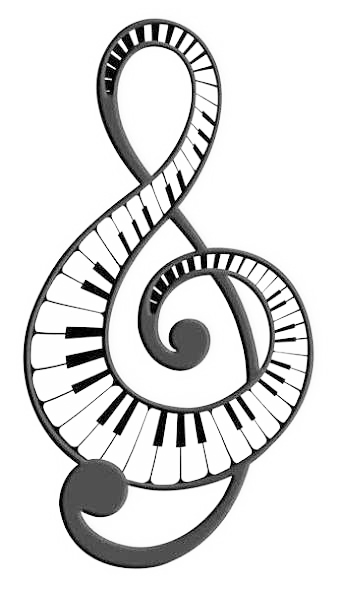
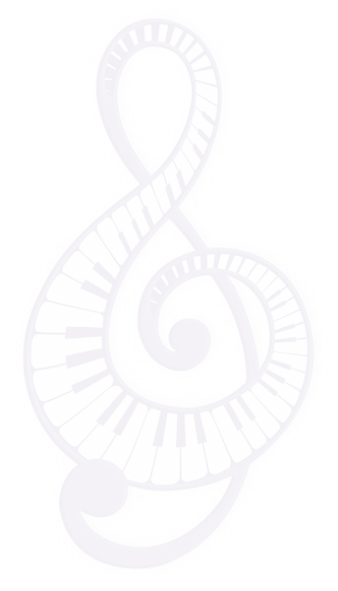
Implement deep purple dark theme, lock in firm DJ pricing
Full site-wide dark theme (background #170f22/#211630, purple accent
#C9A6F5, gold #E8B84B for DJ-track differentiation, near-black footer)
after comparing carbon/blue/purple mockups with Kieran. Regenerated logo
marks as white/light transparent PNGs for the dark background, keeping
black transparent versions for any future light context; favicon stays
on the black version since browser tab chrome is usually light.

DJ R3$pecht pricing table now has firm published numbers (no more ~
ranges or placeholder callout), derived from the confirmed Staging
Solutions combo-package rates. Rate Sheet v2 confirmed accurate as-is.

Changed region(s): [[0.0592, 0.0305, 0.9467, 0.9746], [0.6509, 0.731, 0.6805, 0.7614], [0.3846, 0.731, 0.4142, 0.7614]]

diff --git a/css/style.css b/css/style.css
@@ -1,13 +1,13 @@
 :root {
-  --navy: #1F3864;
-  --navy-dark: #14284a;
-  --teal: #0E7C7B;
-  --rust: #B5651D;
-  --ink: #1a1a1a;
-  --muted: #5f5f5f;
-  --bg: #ffffff;
-  --bg-alt: #f7f6f3;
-  --border: #e2e2e2;
+  --navy: #C9A6F5;
+  --navy-dark: #a879e0;
+  --teal: #C9A6F5;
+  --rust: #E8B84B;
+  --ink: #f2f0f5;
+  --muted: #ab9bc0;
+  --bg: #170f22;
+  --bg-alt: #211630;
+  --border: #3a2a4d;
   --radius: 8px;
 }
 
@@ -37,19 +37,19 @@ h1, h2, h3 { line-height: 1.25; }
   display: flex; align-items: center; justify-content: space-between;
   padding: 16px 24px; max-width: 1100px; margin: 0 auto;
 }
-.logo { display: inline-flex; align-items: center; gap: 8px; font-size: 20px; font-weight: 700; color: var(--navy); letter-spacing: 0.5px; }
-.logo span { color: var(--teal); }
+.logo { display: inline-flex; align-items: center; gap: 8px; font-size: 20px; font-weight: 700; color: var(--ink); letter-spacing: 0.5px; }
+.logo span { color: var(--navy); }
 .logo-mark { width: 26px; height: 26px; flex-shrink: 0; }
 .nav-links { display: flex; align-items: center; gap: 28px; list-style: none; margin: 0; padding: 0; }
 .nav-links a { color: var(--ink); font-weight: 500; font-size: 15px; }
-.nav-links a:hover { color: var(--teal); text-decoration: none; }
+.nav-links a:hover { color: var(--navy); text-decoration: none; }
 
 .btn {
   display: inline-block; padding: 10px 20px; border-radius: var(--radius);
   font-weight: 600; font-size: 15px; border: 2px solid transparent; cursor: pointer;
 }
 .btn:hover { text-decoration: none; }
-.btn-primary { background: var(--navy); color: #fff; }
+.btn-primary { background: var(--navy); color: #170f22; }
 .btn-primary:hover { background: var(--navy-dark); }
 .btn-outline { background: transparent; border-color: currentColor; color: var(--navy); }
 .nav-toggle { display: none; background: none; border: none; font-size: 26px; cursor: pointer; color: var(--navy); }
@@ -75,10 +75,10 @@ h1, h2, h3 { line-height: 1.25; }
 .tracks h2 { text-align: center; font-size: 28px; margin-bottom: 40px; color: var(--navy); }
 .track-grid { display: grid; grid-template-columns: 1fr 1fr; gap: 28px; }
 @media (max-width: 760px) { .track-grid { grid-template-columns: 1fr; } }
-.track-card { border: 1px solid var(--border); border-radius: 12px; padding: 32px; }
-.track-card.staging { border-top: 4px solid var(--teal); }
+.track-card { background: var(--bg-alt); border: 1px solid var(--border); border-radius: 12px; padding: 32px; }
+.track-card.staging { border-top: 4px solid var(--navy); }
 .track-card.dj { border-top: 4px solid var(--rust); }
-.track-card h3 { font-size: 22px; margin: 0 0 12px; }
+.track-card h3 { font-size: 22px; margin: 0 0 12px; color: var(--ink); }
 .track-card p { color: var(--muted); margin-bottom: 20px; }
 
 /* Generic sections */
@@ -90,7 +90,7 @@ p.section-sub { color: var(--muted); margin-bottom: 32px; }
 /* Pricing tables */
 .pricing-table { width: 100%; border-collapse: collapse; margin: 24px 0 40px; font-size: 15px; }
 .pricing-table th, .pricing-table td { text-align: left; padding: 12px 14px; border: 1px solid var(--border); }
-.pricing-table th { background: var(--navy); color: #fff; font-weight: 600; }
+.pricing-table th { background: var(--navy); color: #170f22; font-weight: 600; }
 .pricing-table tr:nth-child(even) td { background: var(--bg-alt); }
 .pricing-note { font-size: 14px; color: var(--muted); font-style: italic; margin-top: -20px; margin-bottom: 32px; }
 
@@ -107,7 +107,7 @@ p.section-sub { color: var(--muted); margin-bottom: 32px; }
 .faq-group h3 { color: var(--navy); font-size: 20px; margin: 40px 0 16px; }
 .faq-group:first-child h3 { margin-top: 0; }
 .faq-item { border-bottom: 1px solid var(--border); padding: 18px 0; }
-.faq-item dt { font-weight: 600; margin-bottom: 8px; }
+.faq-item dt { font-weight: 600; margin-bottom: 8px; color: var(--ink); }
 .faq-item dd { margin: 0; color: var(--muted); }
 
 /* Forms */
@@ -116,27 +116,29 @@ form.booking-form { display: grid; gap: 20px; max-width: 640px; }
 .form-row label { font-weight: 600; font-size: 14px; }
 .form-row input, .form-row select, .form-row textarea {
   padding: 10px 12px; border: 1px solid var(--border); border-radius: var(--radius); font-size: 15px; font-family: inherit;
+  background: var(--bg-alt); color: var(--ink);
 }
+.form-row select option { background: var(--bg-alt); color: var(--ink); }
 .checkbox-group { display: flex; flex-wrap: wrap; gap: 16px; }
 .checkbox-group label { display: flex; align-items: center; gap: 6px; font-weight: 400; font-size: 14px; }
 .form-note { font-size: 13px; color: var(--muted); }
 .hidden { display: none; }
 
 /* Photos */
-.photo-rounded { border-radius: 12px; width: 100%; display: block; box-shadow: 0 2px 10px rgba(0,0,0,0.08); }
+.photo-rounded { border-radius: 12px; width: 100%; display: block; box-shadow: 0 4px 20px rgba(0,0,0,0.5); }
 .gallery-grid { display: grid; grid-template-columns: repeat(auto-fit, minmax(260px, 1fr)); gap: 28px; margin: 8px 0 40px; }
 .gallery-grid figure { margin: 0; }
 .gallery-grid figcaption { font-size: 14px; color: var(--muted); margin-top: 10px; }
 
 /* Callout */
-.callout { background: #fff8ec; border: 1px solid #f0d9a8; border-radius: var(--radius); padding: 16px 20px; font-size: 14px; margin: 24px 0; }
+.callout { background: #2e2418; border: 1px solid #6b5530; border-radius: var(--radius); padding: 16px 20px; font-size: 14px; margin: 24px 0; color: var(--ink); }
 
 /* Footer */
-.site-footer { background: var(--navy); color: #dbe3ef; padding: 48px 0 24px; margin-top: 64px; }
+.site-footer { background: #0d0815; color: #b8a8cc; padding: 48px 0 24px; margin-top: 64px; }
 .site-footer a { color: #fff; }
 .footer-grid { display: grid; grid-template-columns: 1.5fr 1fr 1fr; gap: 32px; margin-bottom: 32px; }
 @media (max-width: 700px) { .footer-grid { grid-template-columns: 1fr; } }
 .footer-grid h4 { color: #fff; font-size: 15px; margin: 0 0 12px; }
 .footer-grid ul { list-style: none; padding: 0; margin: 0; }
 .footer-grid li { margin-bottom: 8px; font-size: 14px; }
-.footer-bottom { border-top: 1px solid rgba(255,255,255,0.15); padding-top: 20px; font-size: 13px; color: #a9b6cc; text-align: center; }
+.footer-bottom { border-top: 1px solid rgba(255,255,255,0.12); padding-top: 20px; font-size: 13px; color: #8a7a9e; text-align: center; }

diff --git a/dj-respecht.html b/dj-respecht.html
@@ -12,7 +12,7 @@
 <meta property="og:url" content="https://spechtlive.com/dj-respecht.html">
 <meta name="twitter:card" content="summary_large_image">
 <link rel="stylesheet" href="css/style.css">
-<link rel="icon" type="image/png" href="img/logo-mark.png">
+<link rel="icon" type="image/png" href="img/logo-mark-black.png">
 </head>
 <body>
 
@@ -49,23 +49,19 @@
       <img src="img/wave-lounge-flyer.png" alt="DJ R3$pecht residency flyer for the Blue Lake Wave Lounge, Friday nights 9pm&ndash;12am, dance &amp; house" class="photo-rounded">
       <figcaption style="margin-top:10px; font-size:14px; color:var(--muted);">Standing DJ residency at the Blue Lake Wave Lounge &mdash; catch a set live.</figcaption>
     </figure>
-    <div class="callout">
-      <strong>Pricing direction is confirmed, dollar figures are placeholders.</strong> The tiers below are all-inclusive (DJ performance + Kieran's own sound + lighting gear) — final numbers depend on how event categories get locked in. Reach out for a firm quote.
-    </div>
-
     <h2 class="section-title">Package tiers</h2>
     <table class="pricing-table">
       <thead><tr><th>Package</th><th>Includes</th><th>Weekday</th><th>Weekend</th></tr></thead>
       <tbody>
-        <tr><td>Ceremony / Cocktail Add-On</td><td>Small PA, wireless mic, background music/ambiance. Add-on only, not sold standalone. 1&ndash;2 hrs.</td><td>~$150&ndash;200</td><td>~$150&ndash;200</td></tr>
-        <tr><td>Reception / Party Package</td><td>DJ performance, Small Band-equivalent sound system, MC/emcee for key moments, Spotlight lighting. Up to 4 hrs.</td><td>~$650</td><td>~$750</td></tr>
-        <tr><td>Full Wedding Package</td><td>DJ performance, full-day MC/emcee, full sound system, full lighting rig (uplighting + dance floor). Ceremony + cocktail + reception, up to 8 hrs.</td><td>~$1,150</td><td>~$1,400</td></tr>
+        <tr><td>Ceremony / Cocktail Add-On</td><td>Small PA, wireless mic, background music/ambiance. Add-on only, not sold standalone. 1&ndash;2 hrs.</td><td>$175</td><td>$175</td></tr>
+        <tr><td>Reception / Party Package</td><td>DJ performance, Small Band-equivalent sound system, MC/emcee for key moments, Spotlight lighting. Up to 4 hrs.</td><td>$700</td><td>$825</td></tr>
+        <tr><td>Full Wedding Package</td><td>DJ performance, full-day MC/emcee, full sound system, full lighting rig (uplighting + dance floor). Ceremony + cocktail + reception, up to 8 hrs.</td><td>$1,150</td><td>$1,400</td></tr>
       </tbody>
     </table>
-    <p class="pricing-note">Additional hour on any tier: ~$125/hr.</p>
+    <p class="pricing-note">Additional hour on any tier: $125/hr.</p>
 
     <h2 class="section-title">Guest DJ set / festival booking</h2>
-    <p>For festivals or gigs where a venue or production company already provides sound — performance-only fee, no gear brought. ~$200&ndash;400 flat depending on set length.</p>
+    <p>For festivals or gigs where a venue or production company already provides sound — performance-only fee, no gear brought. $250&ndash;350 flat depending on set length.</p>
 
     <h2 class="section-title">Corporate &amp; private parties</h2>
     <p>The Reception/Party tier works well for corporate events and private parties too — reach out with your event details for a custom quote.</p>
@@ -88,7 +84,7 @@
     <div class="footer-grid">
       <div>
         <h4>Specht Live</h4>
-        <p style="font-size:14px; color:#c7d2e6;">Specht Staging Solutions and DJ R3$pecht are both operated by Kieran Specht, serving Humboldt County, CA.</p>
+        <p style="font-size:14px; color:#b8a8cc;">Specht Staging Solutions and DJ R3$pecht are both operated by Kieran Specht, serving Humboldt County, CA.</p>
       </div>
       <div>
         <h4>Explore</h4>

diff --git a/about.html b/about.html
@@ -12,7 +12,7 @@
 <meta property="og:url" content="https://spechtlive.com/about.html">
 <meta name="twitter:card" content="summary_large_image">
 <link rel="stylesheet" href="css/style.css">
-<link rel="icon" type="image/png" href="img/logo-mark.png">
+<link rel="icon" type="image/png" href="img/logo-mark-black.png">
 </head>
 <body>
 
@@ -76,7 +76,7 @@
     <div class="footer-grid">
       <div>
         <h4>Specht Live</h4>
-        <p style="font-size:14px; color:#c7d2e6;">Specht Staging Solutions and DJ R3$pecht are both operated by Kieran Specht, serving Humboldt County, CA.</p>
+        <p style="font-size:14px; color:#b8a8cc;">Specht Staging Solutions and DJ R3$pecht are both operated by Kieran Specht, serving Humboldt County, CA.</p>
       </div>
       <div>
         <h4>Explore</h4>

diff --git a/book.html b/book.html
@@ -12,7 +12,7 @@
 <meta property="og:url" content="https://spechtlive.com/book.html">
 <meta name="twitter:card" content="summary_large_image">
 <link rel="stylesheet" href="css/style.css">
-<link rel="icon" type="image/png" href="img/logo-mark.png">
+<link rel="icon" type="image/png" href="img/logo-mark-black.png">
 </head>
 <body>
 
@@ -138,7 +138,7 @@
     <div class="footer-grid">
       <div>
         <h4>Specht Live</h4>
-        <p style="font-size:14px; color:#c7d2e6;">Specht Staging Solutions and DJ R3$pecht are both operated by Kieran Specht, serving Humboldt County, CA.</p>
+        <p style="font-size:14px; color:#b8a8cc;">Specht Staging Solutions and DJ R3$pecht are both operated by Kieran Specht, serving Humboldt County, CA.</p>
       </div>
       <div>
         <h4>Explore</h4>

diff --git a/faq.html b/faq.html
@@ -12,7 +12,7 @@
 <meta property="og:url" content="https://spechtlive.com/faq.html">
 <meta name="twitter:card" content="summary_large_image">
 <link rel="stylesheet" href="css/style.css">
-<link rel="icon" type="image/png" href="img/logo-mark.png">
+<link rel="icon" type="image/png" href="img/logo-mark-black.png">
 </head>
 <body>
 
@@ -95,7 +95,7 @@
     <div class="footer-grid">
       <div>
         <h4>Specht Live</h4>
-        <p style="font-size:14px; color:#c7d2e6;">Specht Staging Solutions and DJ R3$pecht are both operated by Kieran Specht, serving Humboldt County, CA.</p>
+        <p style="font-size:14px; color:#b8a8cc;">Specht Staging Solutions and DJ R3$pecht are both operated by Kieran Specht, serving Humboldt County, CA.</p>
       </div>
       <div>
         <h4>Explore</h4>

diff --git a/gallery.html b/gallery.html
@@ -12,7 +12,7 @@
 <meta property="og:url" content="https://spechtlive.com/gallery.html">
 <meta name="twitter:card" content="summary_large_image">
 <link rel="stylesheet" href="css/style.css">
-<link rel="icon" type="image/png" href="img/logo-mark.png">
+<link rel="icon" type="image/png" href="img/logo-mark-black.png">
 </head>
 <body>
 
@@ -91,7 +91,7 @@
     <div class="footer-grid">
       <div>
         <h4>Specht Live</h4>
-        <p style="font-size:14px; color:#c7d2e6;">Specht Staging Solutions and DJ R3$pecht are both operated by Kieran Specht, serving Humboldt County, CA.</p>
+        <p style="font-size:14px; color:#b8a8cc;">Specht Staging Solutions and DJ R3$pecht are both operated by Kieran Specht, serving Humboldt County, CA.</p>
       </div>
       <div>
         <h4>Explore</h4>

diff --git a/index.html b/index.html
@@ -12,7 +12,7 @@
 <meta property="og:url" content="https://spechtlive.com/">
 <meta name="twitter:card" content="summary_large_image">
 <link rel="stylesheet" href="css/style.css">
-<link rel="icon" type="image/png" href="img/logo-mark.png">
+<link rel="icon" type="image/png" href="img/logo-mark-black.png">
 </head>
 <body>
 
@@ -95,7 +95,7 @@
     <div class="footer-grid">
       <div>
         <h4>Specht Live</h4>
-        <p style="font-size:14px; color:#c7d2e6;">Specht Staging Solutions and DJ R3$pecht are both operated by Kieran Specht, serving Humboldt County, CA.</p>
+        <p style="font-size:14px; color:#b8a8cc;">Specht Staging Solutions and DJ R3$pecht are both operated by Kieran Specht, serving Humboldt County, CA.</p>
       </div>
       <div>
         <h4>Explore</h4>

diff --git a/specht-staging-solutions.html b/specht-staging-solutions.html
@@ -12,7 +12,7 @@
 <meta property="og:url" content="https://spechtlive.com/specht-staging-solutions.html">
 <meta name="twitter:card" content="summary_large_image">
 <link rel="stylesheet" href="css/style.css">
-<link rel="icon" type="image/png" href="img/logo-mark.png">
+<link rel="icon" type="image/png" href="img/logo-mark-black.png">
 </head>
 <body>
 
@@ -110,7 +110,7 @@
     <div class="footer-grid">
       <div>
         <h4>Specht Live</h4>
-        <p style="font-size:14px; color:#c7d2e6;">Specht Staging Solutions and DJ R3$pecht are both operated by Kieran Specht, serving Humboldt County, CA.</p>
+        <p style="font-size:14px; color:#b8a8cc;">Specht Staging Solutions and DJ R3$pecht are both operated by Kieran Specht, serving Humboldt County, CA.</p>
       </div>
       <div>
         <h4>Explore</h4>

diff --git a/thanks.html b/thanks.html
@@ -5,7 +5,7 @@
 <meta name="viewport" content="width=device-width, initial-scale=1.0">
 <title>Thanks — Specht Live</title>
 <link rel="stylesheet" href="css/style.css">
-<link rel="icon" type="image/png" href="img/logo-mark.png">
+<link rel="icon" type="image/png" href="img/logo-mark-black.png">
 </head>
 <body>
 

diff --git a/README.md b/README.md
@@ -18,26 +18,23 @@ gallery.html                      Photo/video gallery (placeholder until photos 
 faq.html                          Booking terms, policies, service FAQs
 book.html                         Inquiry form (Netlify Forms)
 thanks.html                       Form submission success page
-css/style.css                     Shared styles (placeholder brand palette)
+css/style.css                     Shared styles (deep purple dark theme)
 js/main.js                        Mobile nav toggle
 ```
 
 ## Status / before this goes live
 
-- [ ] Swap the placeholder color palette (`css/style.css` `:root` variables) for real brand colors/logo once designed
-- [ ] Confirm final DJ R3$pecht dollar figures — currently placeholder ranges in `dj-respecht.html`, flagged with a callout box
+- [x] Real dark "deep purple" theme implemented in `css/style.css` — background `#170f22`/`#211630`, accent purple `#C9A6F5`, gold `#E8B84B` for DJ-track differentiation (staging=purple, DJ=gold), near-black footer `#0d0815`. Chosen over a carbon (black/green — "too Spotify") and deep-blue alternative, which were mocked up and rejected. Logo marks were regenerated as white/light transparent PNGs (`logo-mark.png`, `treble-clef-mark.png`) since the originals were black-on-transparent and would've disappeared on the new dark background; black transparent versions kept as `*-black.png` for any future light-context use. Favicon intentionally still uses the black version (`logo-mark-black.png`) since browser tab chrome is typically light regardless of site theme.
+- [x] DJ R3$pecht dollar figures are now firm published numbers in `dj-respecht.html` (Ceremony/Cocktail $175 flat, Reception/Party $700/$825, Full Wedding $1,150/$1,400, additional hour $125/hr, Guest DJ/Festival $250–350). Derived from the confirmed Staging Solutions combo-package rates per the original plan doc's pricing logic, approved by Kieran with "can adjust later if needed." The placeholder callout box has been removed from the page.
 - [x] Real photos in place on Home (hero), DJ R3$pecht (portrait + Wave Lounge flyer), About (studio shot), and Gallery (4 photos + flyer). All resized/compressed for web via `sips`. Still worth adding more over time — Instagram @dj_respecht and Facebook are the ongoing source — but the site no longer has bare placeholder sections.
-- [ ] Add testimonials once collected
-- [ ] Confirm the underlying rate sheet figures are final enough to publish as-is
-- [x] Real logo assets in place: `img/logo-mark.png` (small piano-key ribbon "swish") as the header icon and favicon, `img/treble-clef-mark.png` (treble clef built from piano keys) as the primary brand mark, shown large on the homepage hero. **⚠️ Provenance unconfirmed** — both files were supplied directly by Kieran from a "BRAND IDEAS" folder; one sibling file (`BRAND IDEAS.jpeg`, not used) had a visible Depositphotos watermark, so these may be stock-derived. Kieran has said he'll address licensing later — don't treat this as resolved, follow up before the site goes fully public.
+- [ ] Testimonials — none collected. Kieran will collect real ones; explicitly decided against generating fake/generic testimonials (would be misleading advertising for a real business) — do not suggest fabricating these.
+- [x] Rate Sheet v2 confirmed accurate as published by Kieran — no changes needed to Specht Staging Solutions pricing.
+- [x] Real logo assets in place: `img/logo-mark.png` (small piano-key ribbon "swish") as the header icon, `img/treble-clef-mark.png` (treble clef built from piano keys) as the primary brand mark, shown large on the homepage hero. Provenance/licensing was unconfirmed (a sibling reference file had a visible stock watermark) — Kieran has stated this is handled and not a near-term concern.
 - [x] Open Graph / Twitter card tags added to all indexable pages (`og:title`, `og:description`, `og:image`, `og:url`) so links shared to Instagram/Facebook/iMessage show a real preview card instead of nothing. Images point to `https://spechtlive.com/...` — will resolve once the domain is live.
-- [x] Repo is clean and ready to push — loose review photos/video/PDF moved to `../website-photo-review-batch/` (sibling folder, not inside the site), local git repo initialized with an initial commit on `main`.
+- [x] Repo is clean and ready to push — loose review photos/video/PDF moved to `../website-photo-review-batch/` (sibling folder, not inside the site), local git repo initialized with commits on `main`.
 
 ### Still open (not launch-blockers, but worth finalizing)
-- Real color palette/logo — currently placeholder navy/teal/rust
-- Final DJ R3$pecht dollar figures — currently placeholder ranges in `dj-respecht.html`, honestly flagged with a callout box
-- Testimonials — none collected yet
-- Confirm the Rate Sheet v2 figures are still accurate to publish as-is
+- Testimonials — none collected yet; real ones only, no fabricated placeholders.
 
 ## Deploying (Netlify)
 

diff --git a/CLAUDE.md b/CLAUDE.md
@@ -19,24 +19,28 @@ There is no build, lint, or test tooling in this repo — there's nothing to com
 
 If previewing via the Claude Code `Preview` MCP tool specifically: this repo lives under iCloud Drive (`~/Library/Mobile Documents/...`), and the Preview tool's dev-server subprocess cannot get OS-level access to that path — it fails even on `os.getcwd()`, regardless of what directory you point it at. Workaround: copy the site files to a location outside iCloud (e.g. the session scratchpad dir) and serve from there with a small script using `http.server.SimpleHTTPRequestHandler` with an explicit `directory=` argument — do **not** use `python3 -m http.server --directory ...` as a CLI invocation, since `http.server`'s argument parser calls `os.getcwd()` unconditionally while building its parser (before even reading `--directory`), which triggers the same failure.
 
+**Preview screenshot/scroll gotcha:** `html { scroll-behavior: smooth; }` (in `css/style.css`) combined with `window.scrollTo()` via `preview_eval` can leave the automated browser in a stuck state where `preview_screenshot` returns a blank frame and `window.scrollY` stops updating, even though the page is genuinely fine. Fix: run `document.documentElement.style.scrollBehavior = 'auto'` and set `document.documentElement.scrollTop` directly (not `window.scrollTo`) before screenshotting. Simplest workaround: resize the viewport tall enough (e.g. height 3000+) to capture the whole page in one shot without scrolling at all.
+
 **Deploy:** push to GitHub, then import the repo in Netlify (auto-detects as a static site, no build command, publish directory `/`). See `README.md` for the exact git commands and DNS/domain steps. Netlify Forms is wired up for `book.html` via `data-netlify="true"` — no backend code involved.
 
 ## Architecture
 
 **No templating — every page repeats the full header/nav/footer markup verbatim.** There are 8 HTML pages (`index`, `about`, `specht-staging-solutions`, `dj-respecht`, `gallery`, `faq`, `book`, `thanks`), each a complete standalone document with its own copy of the `<header class="site-header">` nav block and `<footer class="site-footer">` block. **When adding/removing/renaming a nav item or footer link, it must be edited identically across all 8 files** — there is no shared include mechanism. `thanks.html` is the one exception: it has the nav but no footer-grid (just a copyright line).
 
-**Styling is one shared stylesheet** (`css/style.css`) using CSS custom properties for the color system (`--navy`, `--teal`, `--rust`, defined in `:root`) and a small set of reusable component classes applied directly in the HTML: `.btn`/`.btn-primary`/`.btn-outline`, `.pricing-table`, `.callout` (amber warning box, used for placeholder-pricing disclaimers), `.track-card`/`.track-grid`, `.sidebar-box`, `.two-col`, `.gallery-grid`, `.photo-rounded`. No CSS-in-JS, no preprocessor.
+**Styling is one shared stylesheet** (`css/style.css`) using CSS custom properties for the color system (`--navy`, `--teal`, `--rust`, defined in `:root`) and a small set of reusable component classes applied directly in the HTML: `.btn`/`.btn-primary`/`.btn-outline`, `.pricing-table`, `.callout` (dark gold-tinted box, used for the overtime/travel notice and the gallery "more coming soon" note — not exclusively a placeholder-content warning anymore), `.track-card`/`.track-grid`, `.sidebar-box`, `.two-col`, `.gallery-grid`, `.photo-rounded`. No CSS-in-JS, no preprocessor.
+
+**Theme is a dark "deep purple"** — `--bg: #170f22`, `--bg-alt: #211630`, `--ink: #f2f0f5` (near-white text), `--muted: #ab9bc0`, `--navy`/`--teal` both repointed to the purple accent `#C9A6F5` (kept as two variable names for low-risk-refactor reasons, but they're the same color), `--rust: #E8B84B` (gold, used only to differentiate the DJ track card border from the Staging Solutions purple one). Footer uses a separate near-black `#0d0815`, not a variable, since it needs to read as "grounded" below the page `--bg`. When editing colors, keep in mind `--navy`/`--teal` are light purple now (not dark) — anything using them as a background needs dark text (`#170f22`), and anything using them as text needs a dark backdrop.
 
 **`js/main.js`** is the entire JS surface: a single `DOMContentLoaded` listener that toggles the `.open` class on `.nav-links` when `.nav-toggle` (the mobile hamburger button) is clicked. That's it.
 
 **Images live in `img/`.** Photos are sourced from the operator's phone/social media and are typically multi-MB originals — always downsize before adding one: `sips -Z 1600 --setProperty formatOptions 75 path/to/photo.jpg` gets a phone photo down to a reasonable web size in place.
 
-**Logo assets:** `img/logo-mark.png` (small piano-key ribbon "swish" mark) is used as both the header logo icon (`.logo-mark` class, next to the "Specht Live" wordmark) and the favicon. `img/treble-clef-mark.png` (a treble clef built entirely from piano keys) is the primary brand mark, shown large on the homepage hero above the `<h1>` — it's meant to be placed wherever it can be seen in its entirety (large), never shrunk down to icon size, since the piano-key detail becomes illegible/muddy at small sizes. Both were supplied directly by the operator (not generated). **Their licensing status is unconfirmed** — a sibling reference file had a visible stock-photo watermark — operator has acknowledged this and said he'll address it later; don't assume it's resolved.
+**Logo assets:** `img/logo-mark.png` (small piano-key ribbon "swish" mark, white/light transparent PNG) is used as the header logo icon (`.logo-mark` class, next to the "Specht Live" wordmark) — it's white because it sits on the dark theme's header background. `img/treble-clef-mark.png` (a treble clef built entirely from piano keys, also white/light transparent) is the primary brand mark, shown large on the homepage hero above the `<h1>` — it's meant to be placed wherever it can be seen in its entirety (large), never shrunk down to icon size, since the piano-key detail becomes illegible/muddy at small sizes. Both have black-on-transparent counterparts (`img/logo-mark-black.png`, `img/treble-clef-mark-black.png`) kept for any future light-background context. The **favicon** deliberately still uses `logo-mark-black.png`, not the white version — browser tab chrome is typically light regardless of the site's own theme, so a white-only icon risks being invisible there. All four were generated from source files supplied directly by the operator (`Swish.png`, `Treble.jpeg`) using a luminance-based alpha script (white background → transparent, black linework → opaque) run via Pillow — see git history for the exact script if regenerating. **Licensing status of the original source images is unconfirmed** — a sibling reference file had a visible stock-photo watermark — operator has acknowledged this and said he'll address it later; don't assume it's resolved, but also don't block on it since the operator has explicitly deprioritized it.
 
 **Every indexable page** (all except `thanks.html`) carries a matched set of `<meta name="description">` + Open Graph (`og:title`, `og:description`, `og:image`, `og:url`) + `twitter:card` tags in `<head>`. The `og:image`/`og:url` values are hardcoded to `https://spechtlive.com/...` absolute URLs (required for social crawlers to resolve them), so they'll only actually resolve once that domain is live.
 
 **Content has explicit placeholder vs. confirmed status** — this matters when editing copy or numbers:
-- Specht Staging Solutions pricing (`specht-staging-solutions.html`) is pulled from a real rate sheet and is treated as close to final.
-- DJ R3$pecht pricing (`dj-respecht.html`) is explicitly placeholder — approximate `~$` ranges wrapped in a `.callout` box saying so. Don't "clean up" the `~` or the callout without being told the real numbers are locked in.
-- Brand colors in `css/style.css` `:root` are a placeholder palette, not final brand colors.
+- Specht Staging Solutions pricing (`specht-staging-solutions.html`) is pulled from a real rate sheet and confirmed accurate by the operator.
+- DJ R3$pecht pricing (`dj-respecht.html`) is now firm, published numbers (no `~`, no placeholder callout) — derived from the Staging Solutions combo-package rates. Operator approved with "can adjust later if needed," so treat these as real but not necessarily permanent.
+- Brand colors are implemented (deep purple dark theme, see Architecture above) — no longer a placeholder. Operator considered and rejected a carbon black/green option ("too Spotify") and a deep-blue option before picking purple.
 - See `README.md`'s "Status / before this goes live" section for the current up-to-date checklist of what's confirmed vs. still open.